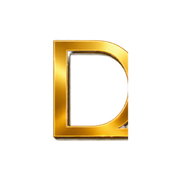
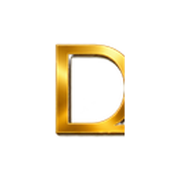
Resize emblem down to ultra-small 13% scale with ?v=4 cache buster

Changed region(s): [[0.2778, 0.2222, 0.7222, 0.8056]]

diff --git a/frontend/app/layout.tsx b/frontend/app/layout.tsx
@@ -39,12 +39,12 @@ export const metadata: Metadata = {
   },
   icons: {
     icon: [
-      { url: '/favicon-32x32.png?v=3', sizes: '32x32', type: 'image/png' },
-      { url: '/icon.png?v=3', sizes: '512x512', type: 'image/png' },
-      { url: '/favicon.ico?v=3', sizes: '32x32', type: 'image/png' },
+      { url: '/favicon-32x32.png?v=4', sizes: '32x32', type: 'image/png' },
+      { url: '/icon.png?v=4', sizes: '512x512', type: 'image/png' },
+      { url: '/favicon.ico?v=4', sizes: '32x32', type: 'image/png' },
     ],
-    shortcut: '/favicon-32x32.png?v=3',
-    apple: '/apple-icon.png?v=3',
+    shortcut: '/favicon-32x32.png?v=4',
+    apple: '/apple-icon.png?v=4',
   },
 };
 
